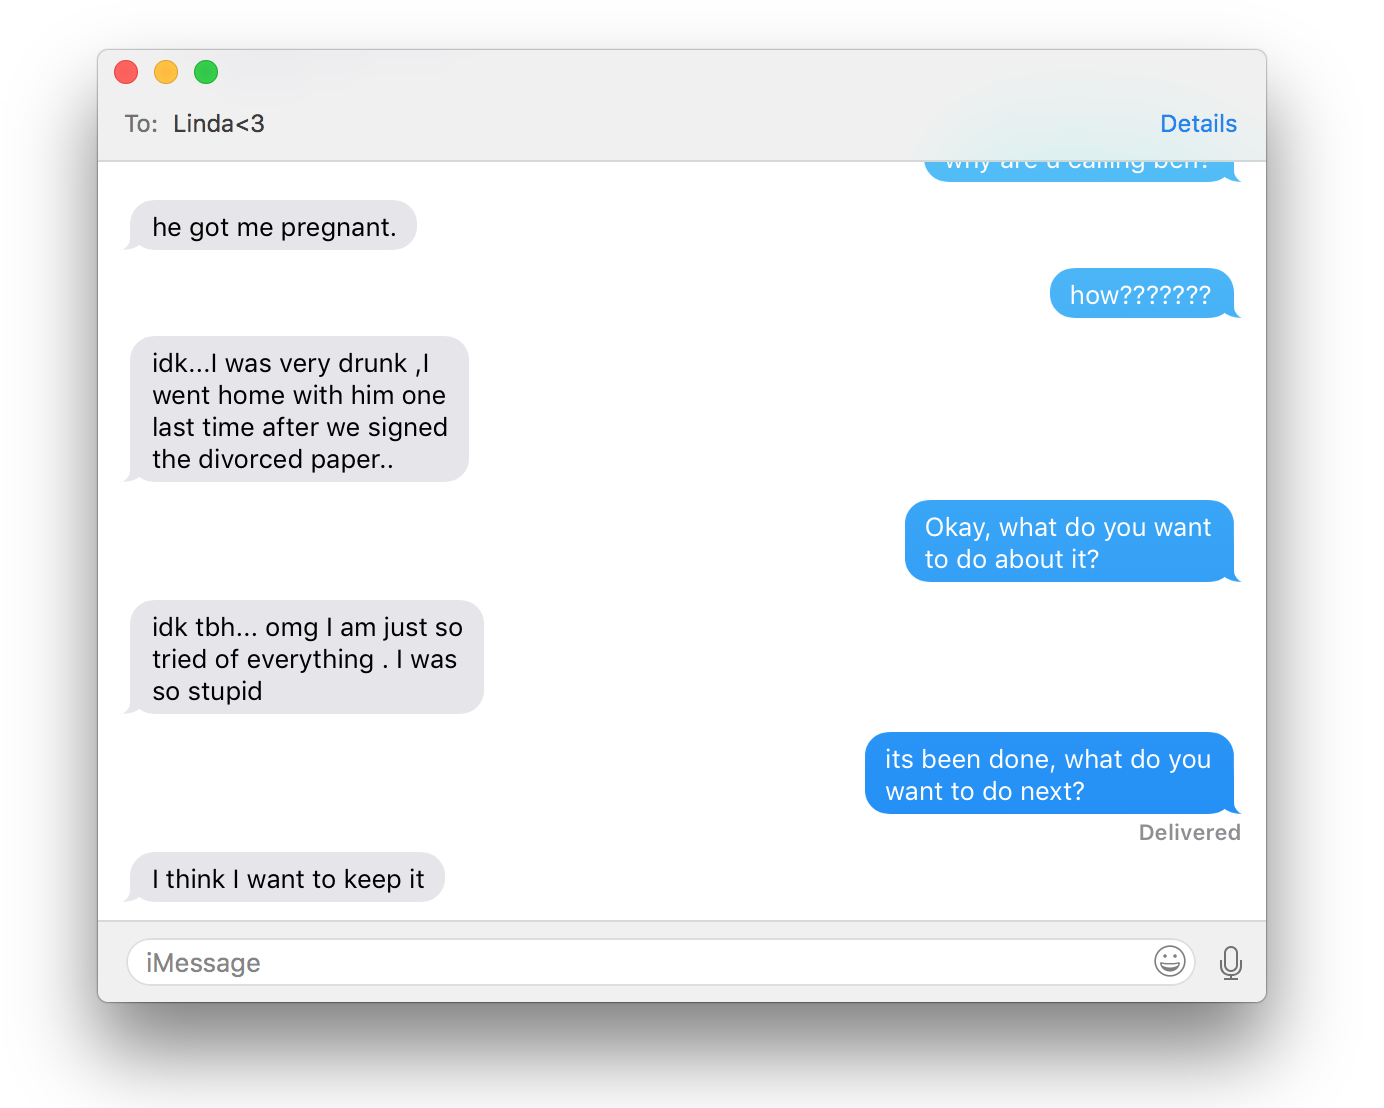
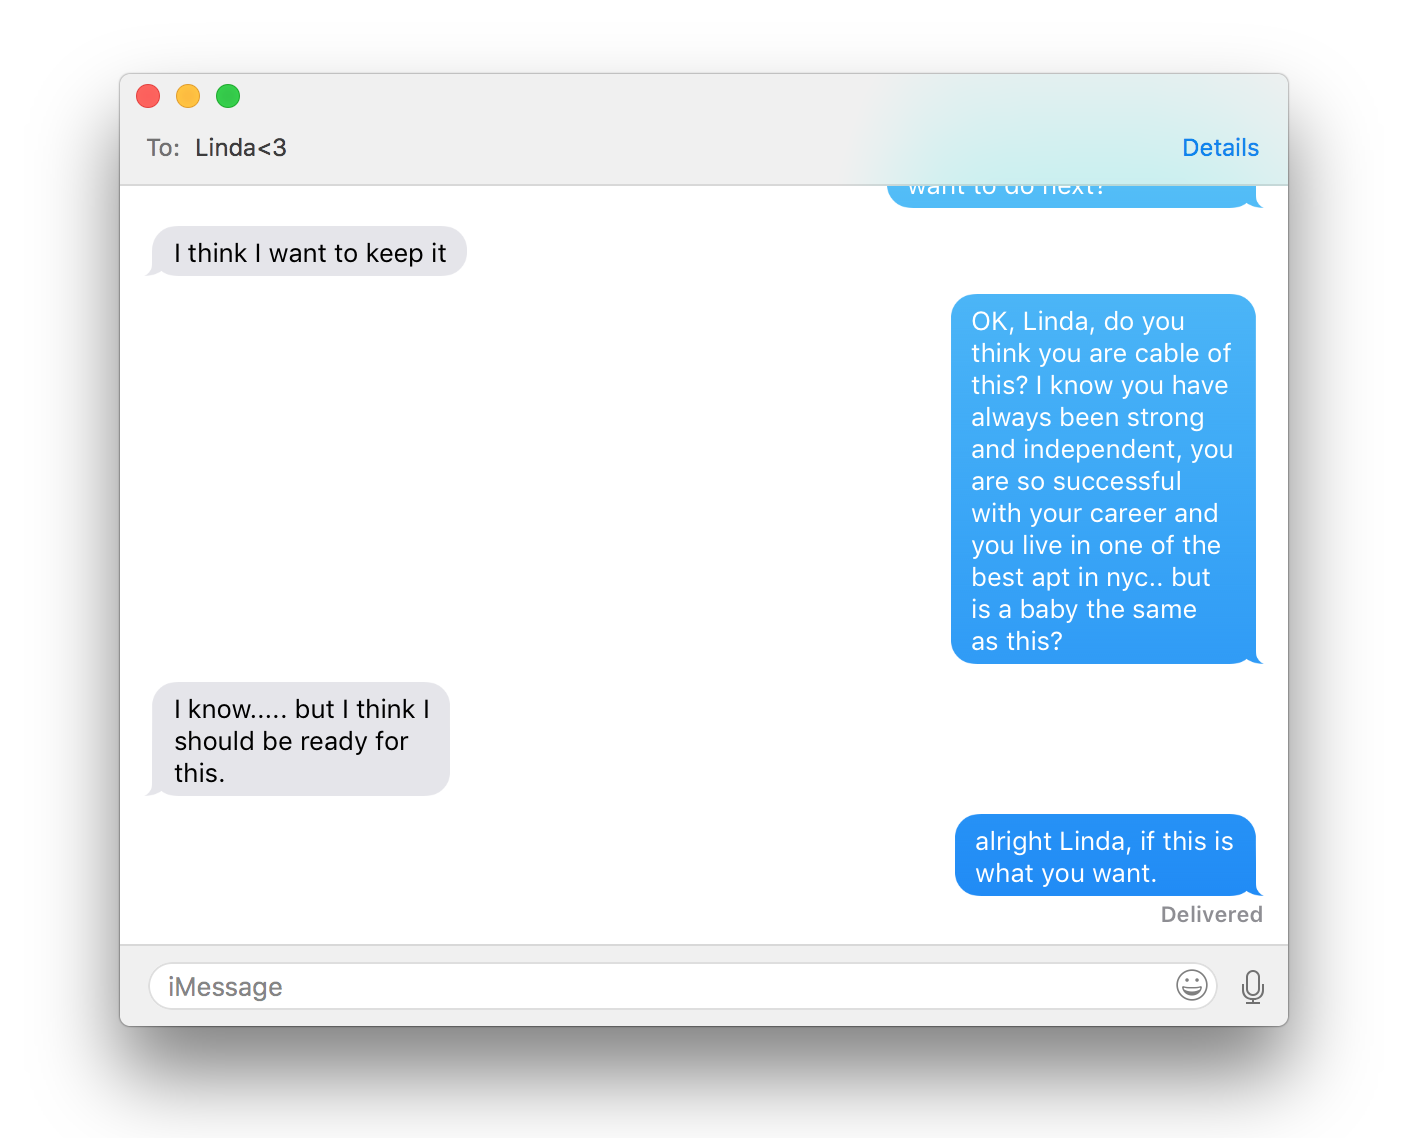
edit

Changed region(s): [[0.0621, 0.0307, 0.9321, 0.9206]]

diff --git a/whatup10.html b/whatup10.html
@@ -6,7 +6,7 @@
 </head>
 
 <body>
-	<div class="game_wrapper" style="background-image: url(./resources/media/images/1_1.png); background-position-y: top;
+	<div class="game_wrapper" style="background-image: url(./resources/media/images/1_14.png); background-position-y: top;
     background-position-x: center;
     background-repeat: no-repeat;
     background-size: 600px 500px;">
@@ -16,14 +16,20 @@
 		</div> -->
  
 		<div class="button left_button">
-			<a href="whatup.html">
-				<button class="clickable_button">whats up?</button>
+			<a href="whatup12.html">
+				<button class="clickable_button">I just want the
+best for you Linda
+and I don't think
+this is a good idea</button>
 			</a>
 		</div>
 		<div class="button right_button">
-			<a href="whatup.html">
-				<button class="clickable_button">(ignore the text for half day
-because you are on a date)</button>
+			<a href="question.html">
+				<button class="clickable_button">idk what to say to
+you anymore, please
+just make up your
+own mind and do
+what is best for you.</button>
 			</a>
 		</div>		
 	</div>

diff --git a/whatup6.html b/whatup6.html
@@ -6,22 +6,25 @@
 </head>
 
 <body>
-	<div class="game_wrapper" style="background-image: url(./resources/media/images/1_2.png); background-position: center;
+	<div class="game_wrapper" style="background-image: url(./resources/media/images/1_7.png); background-position: center;
     background-repeat: no-repeat;
-    background-size: 1200px 900px;">
+    background-size: 560px 470px;">
 
 <!-- 		<div class="title">
 			<h1>Which song has been played more on Spotify?</h1>
 		</div> -->
  
 		<div class="button left_button">
-			<a href="whatup2.html">
-				<button class="clickable_button">why are you calling ben?</button>
+			<a href="whatup7.html">
+				<button class="clickable_button">its been done, what do you
+want to do next?</button>
 			</a>
 		</div>
 		<div class="button right_button">
 			<a href="question.html">
-				<button class="clickable_button">why are you calling ben?</button>
+				<button class="clickable_button">stop thinking about it, you
+should not keep the baby.
+ok?</button>
 			</a>
 		</div>		
 	</div>

diff --git a/whatup11.html b/whatup11.html
@@ -6,7 +6,7 @@
 </head>
 
 <body>
-	<div class="game_wrapper" style="background-image: url(./resources/media/images/1_2.png); background-position: center;
+	<div class="game_wrapper" style="background-image: url(./resources/media/images/1_15.png); background-position: center;
     background-repeat: no-repeat;
     background-size: 1200px 900px;">
 
@@ -15,13 +15,20 @@
 		</div> -->
  
 		<div class="button left_button">
-			<a href="whatup2.html">
-				<button class="clickable_button">why are you calling ben?</button>
+			<a href="whatup12.html">
+				<button class="clickable_button">I just want the
+best for you Linda
+and I don't think
+this is a good idea</button>
 			</a>
 		</div>
 		<div class="button right_button">
 			<a href="question.html">
-				<button class="clickable_button">why are you calling ben?</button>
+				<button class="clickable_button">idk what to say to
+you anymore, please
+just make up your
+own mind and do
+what is best for you.</button>
 			</a>
 		</div>		
 	</div>

diff --git a/whatup2.html b/whatup2.html
@@ -6,22 +6,22 @@
 </head>
 
 <body>
-	<div class="game_wrapper" style="background-image: url(./resources/media/images/1_2.png); background-position: center;
+	<div class="game_wrapper" style="background-image: url(./resources/media/images/1_3.png); background-position: center;
     background-repeat: no-repeat;
-    background-size: 1200px 900px;">
+    background-size: 600px 500px;">
 
 <!-- 		<div class="title">
 			<h1>Which song has been played more on Spotify?</h1>
 		</div> -->
  
 		<div class="button left_button">
-			<a href="whatup2.html">
-				<button class="clickable_button">why are you calling ben?</button>
+			<a href="whatup3.html">
+				<button class="clickable_button">how???????</button>
 			</a>
 		</div>
 		<div class="button right_button">
 			<a href="question.html">
-				<button class="clickable_button">why are you calling ben?</button>
+				<button class="clickable_button">oh</button>
 			</a>
 		</div>		
 	</div>

diff --git a/whatup9.html b/whatup9.html
@@ -6,22 +6,22 @@
 </head>
 
 <body>
-	<div class="game_wrapper" style="background-image: url(./resources/media/images/1_2.png); background-position: center;
+	<div class="game_wrapper" style="background-image: url(./resources/media/images/1_12.png); background-position: center;
     background-repeat: no-repeat;
-    background-size: 1200px 900px;">
+    background-size: 600px 500px;">
 
 <!-- 		<div class="title">
 			<h1>Which song has been played more on Spotify?</h1>
 		</div> -->
  
 		<div class="button left_button">
-			<a href="whatup2.html">
-				<button class="clickable_button">why are you calling ben?</button>
+			<a href="whatup10.html">
+				<button class="clickable_button">yes</button>
 			</a>
 		</div>
 		<div class="button right_button">
 			<a href="question.html">
-				<button class="clickable_button">why are you calling ben?</button>
+				<button class="clickable_button">no</button>
 			</a>
 		</div>		
 	</div>

diff --git a/whatup4.html b/whatup4.html
@@ -1,0 +1,26 @@
+<!DOCTYPE html>
+<html>
+<head>
+	<title>Hey</title>
+	<link rel="stylesheet" type="text/css" href="./resources/css/style.css">
+</head>
+
+<body>
+	<div class="game_wrapper" style="background-image: url(./resources/media/images/1_5.png); background-position: center;
+    background-repeat: no-repeat;
+    background-size: 600px 500px;">
+
+<!-- 		<div class="title">
+			<h1>Which song has been played more on Spotify?</h1>
+		</div> -->
+ 
+		<div class="button center">
+			<a href="whatup5.html">
+				<button class="clickable_button">click</button>
+			</a>
+		</div>
+			
+	</div>
+
+</body>
+</html>

diff --git a/whatup5.html b/whatup5.html
@@ -1,0 +1,26 @@
+<!DOCTYPE html>
+<html>
+<head>
+	<title>Hey</title>
+	<link rel="stylesheet" type="text/css" href="./resources/css/style.css">
+</head>
+
+<body>
+	<div class="game_wrapper" style="background-image: url(./resources/media/images/1_6.png); background-position: center;
+    background-repeat: no-repeat;
+    background-size: 600px 500px;">
+
+<!-- 		<div class="title">
+			<h1>Which song has been played more on Spotify?</h1>
+		</div> -->
+ 
+		<div class="button center">
+			<a href="whatup6.html">
+				<button class="clickable_button">click</button>
+			</a>
+		</div>
+			
+	</div>
+
+</body>
+</html>

diff --git a/ending.html b/ending.html
@@ -1,0 +1,25 @@
+<!DOCTYPE html>
+<html>
+<head>
+	<title>Hey</title>
+	<link rel="stylesheet" type="text/css" href="./resources/css/style.css">
+</head>
+
+<body>
+	<div class="game_wrapper" style="background-image: url(./resources/media/images/ending.png); background-position: center;
+    background-repeat: no-repeat;
+    background-size: cover;">
+
+<!-- 		<div class="title">
+			<h1>Which song has been played more on Spotify?</h1>
+		</div> -->
+ 
+		<div class="center button">
+			<a href="index.html">
+				<button class="clickable_button">Start over?</button>
+			</a>
+		</div>
+		
+
+</body>
+</html>

diff --git a/whatup12.html b/whatup12.html
@@ -1,0 +1,25 @@
+<!DOCTYPE html>
+<html>
+<head>
+	<title>Hey</title>
+	<link rel="stylesheet" type="text/css" href="./resources/css/style.css">
+</head>
+
+<body>
+	<div class="game_wrapper" style="background-image: url(./resources/media/images/1_16.png); background-position: center;
+    background-repeat: no-repeat;
+    background-size: 600px 500px;">
+
+<!-- 		<div class="title">
+			<h1>Which song has been played more on Spotify?</h1>
+		</div> -->
+ 
+		<div class="center button">
+			<a href="result1.html">
+				<button class="clickable_button">click</button>
+			</a>
+		</div>
+		
+
+</body>
+</html>

diff --git a/whatup8.html b/whatup8.html
@@ -1,0 +1,25 @@
+<!DOCTYPE html>
+<html>
+<head>
+	<title>Hey</title>
+	<link rel="stylesheet" type="text/css" href="./resources/css/style.css">
+</head>
+
+<body>
+	<div class="game_wrapper" style="background-image: url(./resources/media/images/1_10.png); background-position: center;
+    background-repeat: no-repeat;
+    background-size: 600px 500px;">
+
+<!-- 		<div class="title">
+			<h1>Which song has been played more on Spotify?</h1>
+		</div> -->
+ 
+		<div class="center button">
+			<a href="whatup9.html">
+				<button class="clickable_button">click</button>
+			</a>
+		</div>
+		
+
+</body>
+</html>

diff --git a/whatup3.html b/whatup3.html
@@ -1,0 +1,25 @@
+<!DOCTYPE html>
+<html>
+<head>
+	<title>Hey</title>
+	<link rel="stylesheet" type="text/css" href="./resources/css/style.css">
+</head>
+
+<body>
+	<div class="game_wrapper" style="background-image: url(./resources/media/images/1_4.png); background-position: center;
+    background-repeat: no-repeat;
+    background-size: 600px 500px;">
+
+<!-- 		<div class="title">
+			<h1>Which song has been played more on Spotify?</h1>
+		</div> -->
+ 
+		<div class="center button">
+			<a href="whatup4.html">
+				<button class="clickable_button">click</button>
+			</a>
+		</div>
+		
+
+</body>
+</html>

diff --git a/whatup7.html b/whatup7.html
@@ -1,0 +1,25 @@
+<!DOCTYPE html>
+<html>
+<head>
+	<title>Hey</title>
+	<link rel="stylesheet" type="text/css" href="./resources/css/style.css">
+</head>
+
+<body>
+	<div class="game_wrapper" style="background-image: url(./resources/media/images/1_8.png); background-position: center;
+    background-repeat: no-repeat;
+    background-size: 600px 500px;">
+
+<!-- 		<div class="title">
+			<h1>Which song has been played more on Spotify?</h1>
+		</div> -->
+ 
+		<div class="center button">
+			<a href="whatup8.html">
+				<button class="clickable_button">click</button>
+			</a>
+		</div>
+		
+
+</body>
+</html>
